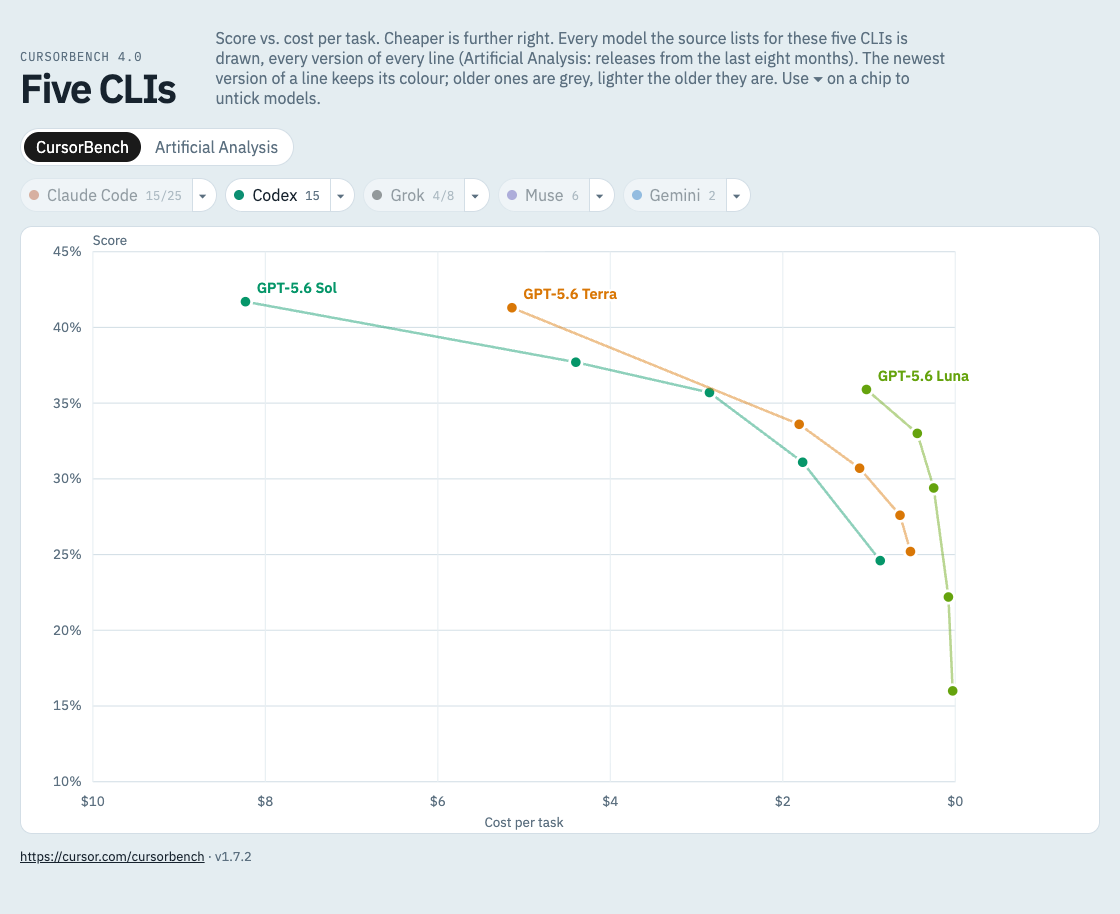
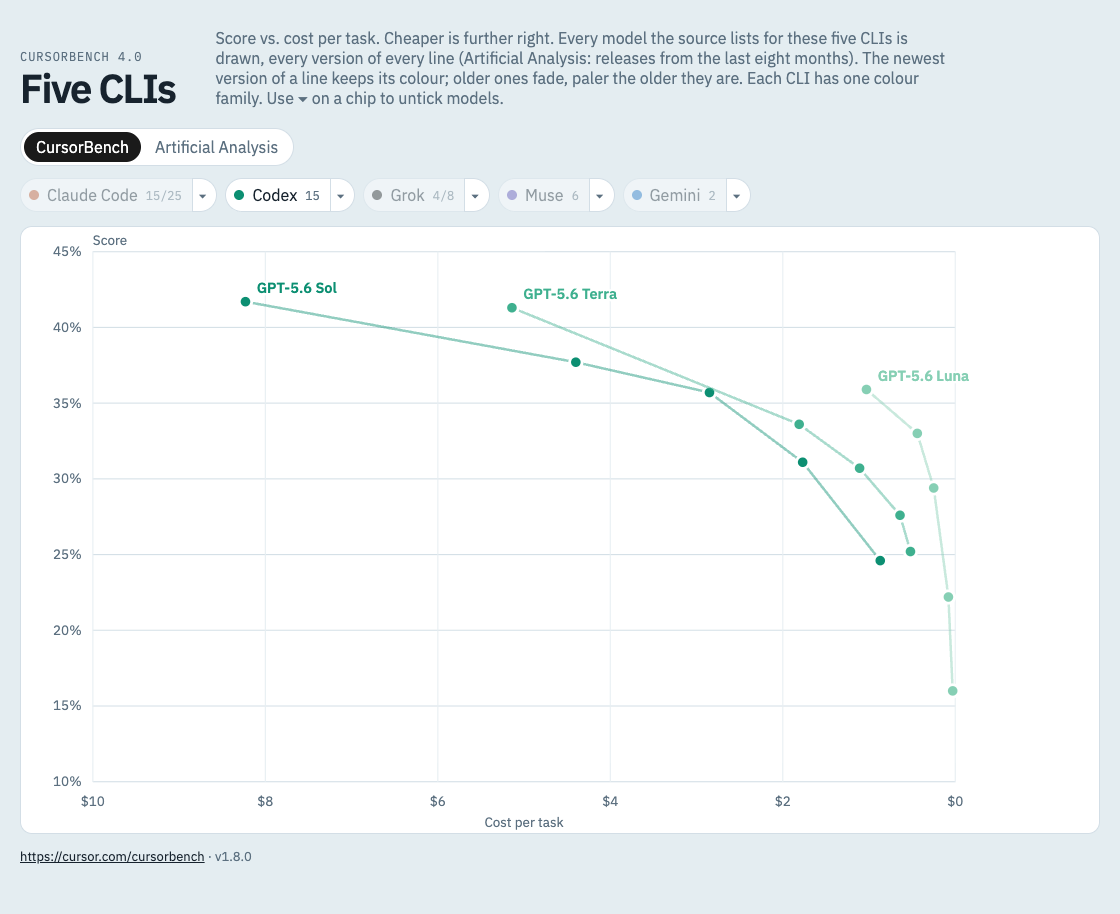
feat: one colour family per CLI, older versions fade; menu newest generation first
- Each CLI has one colour family (Claude terracotta, Codex green, Grok
  black, Muse purple, Gemini blue) with a shade per line. Older
  versions fade toward white instead of turning grey, paler the older
  they are, so a faded line still reads as its CLI.
- The menu lists the newest generation first so older versions sink:
  major version, then versions behind the line's newest, then line
  order. Gemini, whose lines share one version track, is newest number
  first.
- README, changelog and screenshots updated. Bump to 1.8.0.

diff --git a/src/Legend.tsx b/src/Legend.tsx
@@ -10,9 +10,9 @@ type Props = {
   onSetModels: (models: readonly string[], visible: boolean) => void
 }
 
-// Menu order: by line (Fable, Opus, Sonnet; GPT Astra, Sol, Terra, Luna; Grok, Grok Build;
-// Muse Spark, Glimmer; Gemini Argon, Flash, Flash-Lite, Pro), and newest version first within a
-// line, so the list does not reshuffle when scores move.
+// Menu order, newest generation first so older ones sink to the bottom; it does not
+// reshuffle when scores move. Line order breaks ties: Fable, Opus, Sonnet; GPT Astra, Sol,
+// Terra, Luna; Grok, Grok Build; Muse Spark, Glimmer; Gemini Argon, Flash, Flash-Lite, Pro.
 const LINE_ORDER = [
   "Fable", "Opus", "Sonnet",
   "Astra", "Sol", "Terra", "Luna",
@@ -21,15 +21,29 @@ const LINE_ORDER = [
   "Gemini Argon", "Gemini Flash", "Gemini Flash-Lite", "Gemini Pro Preview",
 ]
 
-function compareModels(a: string, b: string) {
+const rank = (line: string) => (LINE_ORDER.includes(line) ? LINE_ORDER.indexOf(line) : LINE_ORDER.length)
+
+// Gemini numbers every line on one shared track, so the higher number is the newer
+// generation (both Gemini 3.1 models sit at the bottom). Claude and GPT lines each step on
+// their own, so a generation is the major version, then how many versions a model trails
+// the newest of its line: Fable 5.1, Opus 5.5, Sonnet 5.5, then Fable 5, Opus 5, Sonnet 5,
+// then Opus 4.8, Sonnet 4.6.
+function compareModels(a: string, b: string, provider: ProviderId, behind: ReadonlyMap<string, number>) {
   const x = modelLine(a)
   const y = modelLine(b)
-  const rank = (line: string) => (LINE_ORDER.includes(line) ? LINE_ORDER.indexOf(line) : LINE_ORDER.length)
-  return rank(x.line) - rank(y.line) || x.line.localeCompare(y.line) || y.version - x.version || b.localeCompare(a)
+  if (provider === "gemini") return y.version - x.version || rank(x.line) - rank(y.line) || b.localeCompare(a)
+  return (
+    Math.floor(y.version) - Math.floor(x.version) ||
+    (behind.get(a) ?? 0) - (behind.get(b) ?? 0) ||
+    rank(x.line) - rank(y.line) ||
+    x.line.localeCompare(y.line) ||
+    y.version - x.version ||
+    b.localeCompare(a)
+  )
 }
 
 // Models of one provider in menu order, with how many points each has.
-function modelsOf(rows: Row[], provider: ProviderId) {
+function modelsOf(rows: Row[], provider: ProviderId, behind: ReadonlyMap<string, number>) {
   const byModel = new Map<string, { model: string; points: number }>()
   for (const row of rows) {
     if (row.provider !== provider) continue
@@ -37,7 +51,7 @@ function modelsOf(rows: Row[], provider: ProviderId) {
     entry.points++
     byModel.set(row.model, entry)
   }
-  return [...byModel.values()].sort((a, b) => compareModels(a.model, b.model))
+  return [...byModel.values()].sort((a, b) => compareModels(a.model, b.model, provider, behind))
 }
 
 export default function Legend({ rows, previous, hiddenProviders, hiddenModels, onToggleProvider, onSetModels }: Props) {
@@ -63,7 +77,7 @@ export default function Legend({ rows, previous, hiddenProviders, hiddenModels, 
   return (
     <div className="legend" role="group" aria-label="Visible providers" ref={ref}>
       {PROVIDERS.map((provider) => {
-        const models = modelsOf(rows, provider.id)
+        const models = modelsOf(rows, provider.id, previous)
         if (models.length === 0) return null
         const total = models.reduce((sum, item) => sum + item.points, 0)
         const shown = models.filter((item) => !hiddenModels.has(item.model))

diff --git a/src/bench.ts b/src/bench.ts
@@ -46,7 +46,7 @@ export const SOURCES: Record<
   },
 }
 
-export const APP_VERSION = "1.7.2"
+export const APP_VERSION = "1.8.0"
 
 export function providerById(id: ProviderId) {
   const found = PROVIDERS.find((item) => item.id === id)
@@ -86,22 +86,32 @@ export function previousGenerations(models: readonly string[]) {
   return behind
 }
 
+// One hue per CLI (its chip colour), one shade per line within it: darkest for the
+// flagship line, lightest for the small one. A colour tells you the CLI at a glance.
+const LINE_COLOR: Record<string, string> = {
+  Fable: "#8a3a1c", Opus: "#c4552a", Sonnet: "#e08a5a",
+  Astra: "#0a5c4a", Sol: "#0c8f72", Terra: "#3fb08f", Luna: "#86cfb4",
+  Grok: "#1a1a1a", "Grok Build": "#6b6b6b",
+  "Muse Spark": "#5b4db7", "Muse Glimmer": "#9d92e3",
+  "Gemini Argon": "#0b3d91", "Gemini Pro Preview": "#3b5bd9", "Gemini Flash": "#1a73c7", "Gemini Flash-Lite": "#6eaaf0",
+}
+
+// Share of white mixed in per step behind the newest version of a line: the older, the
+// paler, so faded lines still read as their CLI's colour.
+const FADE = [0, 0.35, 0.55, 0.7, 0.8]
+
+function fade(hex: string, behind: number) {
+  const t = FADE[Math.min(Math.max(behind, 0), FADE.length - 1)]
+  if (!t) return hex
+  const channel = (i: number) => {
+    const value = parseInt(hex.slice(1 + i * 2, 3 + i * 2), 16)
+    return Math.round(value + (255 - value) * t).toString(16).padStart(2, "0")
+  }
+  return `#${channel(0)}${channel(1)}${channel(2)}`
+}
+
 export function seriesColor(model: string, provider: ProviderId, behind = 0) {
-  if (behind === 1) return "#64748b"
-  if (behind > 1) return "#a3afbd"
-  if (model.startsWith("Opus")) return "#0ea5e9"
-  if (model.startsWith("Sonnet")) return "#c4552a"
-  if (model.startsWith("Fable")) return "#9a3412"
-  if (model.includes("Argon")) return "#1e3a8a"
-  if (model.includes("Flash-Lite")) return "#60a5fa"
-  if (model.includes(" Pro")) return "#4338ca"
-  if (model.startsWith("Grok Build")) return "#78716c"
-  if (model.startsWith("Muse Glimmer")) return "#a855f7"
-  if (model.includes("Sol")) return "#059669"
-  if (model.includes("Terra")) return "#d97706"
-  if (model.includes("Astra")) return "#0f766e"
-  if (model.includes("Luna")) return "#65a30d"
-  return providerById(provider).color
+  return fade(LINE_COLOR[modelLine(model).line] ?? providerById(provider).color, behind)
 }
 
 export function formatScore(score: number, unit = "%") {

diff --git a/src/App.tsx b/src/App.tsx
@@ -126,7 +126,7 @@ export default function App() {
         <p className="deck">
           Score vs. cost per task. Cheaper is further right. Every model the source lists for these five CLIs is drawn,
           every version of every line (Artificial Analysis: releases from the last eight months). The newest version of a
-          line keeps its colour; older ones are grey, lighter the older they are. Use ▾ on a chip to untick models.
+          line keeps its colour; older ones fade, paler the older they are. Each CLI has one colour family. Use ▾ on a chip to untick models.
           {source === "aa"
             ? " AA scores a general intelligence index on another test set; do not compare them with CursorBench percentages."
             : null}

diff --git a/README.md b/README.md
@@ -20,7 +20,7 @@ Hovering a point spotlights that model: the other lines fade, a crosshair marks 
 
 ![Demo: hover spotlights one model and dims the rest](docs/demo-hover.png)
 
-Each legend chip also has a ▾ menu to tick the models of that CLI one by one. Here the older GPT-6 Sol, GPT-5.6 Sol and GPT-5.6 Luna are unticked, so Codex shows 20 of its 35 points. The screenshots on this page keep only the newest version of each line ticked. The menu lists models by line and newest version first, the same order as the table above.
+Each legend chip also has a ▾ menu to tick the models of that CLI one by one. Here the older GPT-6 Sol, GPT-5.6 Sol and GPT-5.6 Luna are unticked, so Codex shows 20 of its 35 points. The screenshots on this page keep only the newest version of each line ticked. The menu lists the newest generation first, so older versions sink to the bottom.
 
 ![Demo: the model menu under a legend chip](docs/demo-menu.png)
 
@@ -28,7 +28,7 @@ Clicking a legend chip shows or hides that CLI. Here only Codex is visible, comp
 
 ![Demo: legend chips filter the chart to one CLI](docs/demo-filter.png)
 
-**Version rule:** every version the source lists for a line is drawn, so on Artificial Analysis GPT-6.1 Sol, GPT-6 Sol and GPT-5.6 Sol all appear, as do Opus 5.5 and Opus 5. The newest version of a line keeps its colour; the one before it is dark grey and anything older is light grey. Versions compare as decimals, so Grok 4.20 counts as older than Grok 4.7. A new version appears as soon as the source lists it, with no code change. Untick older versions in the ▾ menu to hide them.
+**Version rule:** every version the source lists for a line is drawn, so on Artificial Analysis GPT-6.1 Sol, GPT-6 Sol and GPT-5.6 Sol all appear, as do Opus 5.5 and Opus 5. Each CLI has one colour family (Claude terracotta, Codex green, Grok black, Muse purple, Gemini blue), with a darker shade for its flagship line and a lighter one for its small line. The newest version of a line keeps its colour; older versions fade toward white, paler the older they are, so a faded line still reads as its CLI. Versions compare as decimals, so Grok 4.20 counts as older than Grok 4.7. A new version appears as soon as the source lists it, with no code change. Untick older versions in the ▾ menu to hide them.
 
 As of 2026-10-01 CursorBench has no GPT-6 models, so it shows only GPT-5.6. GPT-6 has no Terra line.
 
@@ -51,7 +51,7 @@ Open the URL Vite prints (default http://localhost:5173).
 
 - **Source toggle:** switch between CursorBench and Artificial Analysis.
 - **Legend chips:** an on/off switch for a whole CLI. Turning it off and on again keeps the models you ticked in its menu. The number is how many points it has, or shown/total when some models are unticked.
-- **▾ next to a chip:** tick or untick that CLI's models one by one, or all at once. Models are listed by line (Fable, Opus, Sonnet; GPT Astra, Sol, Terra, Luna; Grok, Grok Build; Muse Spark, Glimmer; Gemini Argon, Flash, Flash-Lite, Pro), newest version first. Esc or a click outside closes it.
+- **▾ next to a chip:** tick or untick that CLI's models one by one, or all at once. Models are listed newest generation first, so older versions sink to the bottom. For Claude Code, Codex, Grok and Muse a generation is the major version, then how many versions a model trails the newest of its line (Fable 5.1, Opus 5.5, Sonnet 5.5, then Fable 5, Opus 5, Sonnet 5, then Opus 4.8, Sonnet 4.6). Gemini numbers every line on one shared track, so it is plain newest number first. Line order breaks ties: Fable, Opus, Sonnet; GPT Astra, Sol, Terra, Luna; Grok, Grok Build; Muse Spark, Glimmer; Gemini Argon, Flash, Flash-Lite, Pro. Esc or a click outside closes it.
 - **Remembered:** chip switches and menu ticks are saved in this browser (localStorage), so a reload or the next visit keeps them. They apply to both sources.
 - **Hover** a point to highlight its label, score, and cost.
 - **Click** a point to pin it. Click again to unpin.
@@ -103,6 +103,7 @@ Which providers count is `providerOf` in [server/bench.mjs](server/bench.mjs); t
 
 ## Changelog
 
+- **1.8.0** (2026-10-02): One colour family per CLI, a shade per line, and older versions fade instead of turning grey, paler the older they are. The ▾ menu lists the newest generation first, so older versions sink to the bottom (Gemini: newest number first).
 - **1.7.2** (2026-10-02): In the Gemini menu, Pro comes after Flash-Lite, so both Gemini 3.1 models sit at the bottom.
 - **1.7.1** (2026-10-02): Screenshots keep only the newest version of each line ticked, and the menu caption says which older versions are unticked.
 - **1.7.0** (2026-10-02): Every model of the five CLIs is drawn, every version of every line (AA: releases from the last 240 days). The older-is-grey rule and the newest-first menu order now cover every line, not only GPT. Versions compare as decimals (Grok 4.20 below 4.7). Gemini 3.1 Pro Preview, a reasoning variant without an effort level, shows as one point.
